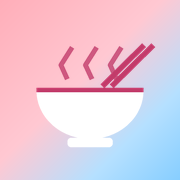
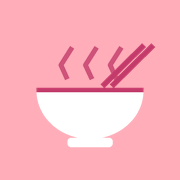
Phối màu toàn hồng, xanh chỉ dùng khi đang nhấn nút
- css: bỏ gradient. Cả app một họ hồng quanh #FFAEB9 (nền #FFF5F7, hồng nhạt
  cho chip/ghi chú, hồng đậm #C23B6A / #8E2650 cho nút, nhãn, biểu đồ, chữ);
  các chỗ trước dùng tông xanh chuyển sang hồng đậm.
- Màu xanh #87CEFF chỉ hiện ở trạng thái :active của nút, chip, thẻ bấm được,
  thanh điều hướng; tắt vệt xám mặc định khi chạm trên điện thoại.
- Icon vẽ lại trên nền hồng trơn. Lên leeming-v8.

Claude-Session: https://claude.ai/code/session_01WVN1NeHRdAepGoXkGaekJ4

diff --git a/css/app.css b/css/app.css
@@ -1,26 +1,26 @@
 :root {
-  /* Hai màu chính: hồng của Cá (--pink) và xanh của bố (--sky). Cả hai là màu pastel nên dùng làm nền/trang trí;
-     nút và chữ dùng tông đậm cùng họ (--accent hồng đậm, --green xanh đậm) để đủ tương phản. */
+  /* Cả app một họ màu hồng, quanh màu Cá thích (--pink #FFAEB9): nhạt cho nền, đậm cho nút và chữ.
+     Màu xanh của bố (--sky #87CEFF) chỉ hiện lúc đang nhấn nút (xem cuối file). */
   --pink: #FFAEB9;
   --sky: #87CEFF;
-  --bg: #FFF6F8;
+  --sky-deep: #5AAEE8;
+  --bg: #FFF5F7;
   --card: #FFFFFF;
-  --line: #F5DDE3;
-  --line-strong: #E6C2CC;
-  --ink: #2B2135;
-  --muted: #6B5E73;
+  --tint: #FFEEF2;
+  --line: #F8DDE4;
+  --line-strong: #F2BCC8;
+  --ink: #3A1F2C;
+  --muted: #7A5A68;
   --accent: #C23B6A;
   --accent-dark: #A12E57;
   --accent-soft: #FFE3E9;
   --accent-ink: #8E2650;
-  --green: #1F6EA5;
-  --green-soft: #E1F3FF;
-  --green-ink: #175A87;
+  --deep: #8E2650;
+  --rose-200: #FFCCD5;
   --star: #E9A23B;
-  --placeholder: #FBE6EB;
-  --focus: #5AAEE8;
+  --placeholder: #FFE3E9;
+  --focus: #E0607B;
   --danger: #B42318;
-  --hero: linear-gradient(135deg, var(--pink) 0%, #FFC8D2 45%, #B5E0FF 75%, var(--sky) 100%);
   --display: 'Baloo 2', 'Be Vietnam Pro', system-ui, sans-serif;
   --body: 'Be Vietnam Pro', system-ui, -apple-system, 'Segoe UI', sans-serif;
   --safe-bottom: env(safe-area-inset-bottom, 0px);
@@ -66,7 +66,6 @@ img { display: block; max-width: 100%; }
 .btn { display: inline-flex; align-items: center; justify-content: center; gap: 8px; border-radius: 999px; padding: 15px 22px; font-weight: 700; font-size: 16px; border: 2px solid transparent; text-decoration: none; min-height: 48px; }
 .btn svg { width: 18px; height: 18px; }
 .btn-primary { background: var(--accent); color: #fff; }
-.btn-primary:active { background: var(--accent-dark); }
 .btn-outline { background: var(--card); border-color: var(--ink); color: var(--ink); }
 .btn-light { background: #fff; color: var(--accent); box-shadow: 0 4px 14px rgba(194, 59, 106, .18); }
 .btn-ghost { background: none; color: var(--accent); padding: 12px; }
@@ -79,13 +78,13 @@ img { display: block; max-width: 100%; }
 
 /* ── Thẻ ── */
 .card { background: var(--card); border: 1px solid var(--line); border-radius: 22px; padding: 16px; }
-.hero { background: var(--hero); color: var(--ink); border-radius: 28px; padding: 24px 22px; display: flex; flex-direction: column; gap: 14px; }
+.hero { background: var(--pink); color: var(--ink); border-radius: 28px; padding: 24px 22px; display: flex; flex-direction: column; gap: 14px; }
 .hero .kicker { font-size: 13px; font-weight: 700; letter-spacing: .06em; text-transform: uppercase; color: var(--accent-ink); }
 .hero p { margin: 0; font-size: 15px; line-height: 1.5; color: var(--ink); }
 .hero .btn { align-self: flex-start; }
 .tiles { display: grid; grid-template-columns: repeat(2, minmax(0, 1fr)); gap: 12px; }
 .tile { background: var(--card); border: 1px solid var(--line); border-radius: 20px; padding: 16px; display: flex; flex-direction: column; gap: 8px; color: var(--ink); text-decoration: none; text-align: left; }
-.tile svg { width: 26px; height: 26px; color: var(--green); }
+.tile svg { width: 26px; height: 26px; color: var(--deep); }
 .tile strong { font-size: 15px; }
 .tile span { font-size: 13px; color: var(--muted); }
 
@@ -96,9 +95,9 @@ img { display: block; max-width: 100%; }
 /* ── Chip & nhãn ── */
 .chips { display: flex; flex-wrap: wrap; gap: 8px; align-items: center; }
 .chip { background: var(--accent-soft); color: var(--accent-ink); font-size: 13px; font-weight: 600; padding: 6px 12px; border-radius: 999px; }
-.chip-green { background: var(--green-soft); color: var(--green-ink); }
+.chip-green { background: var(--tint); color: var(--deep); }
 .badge { font-size: 12px; font-weight: 700; padding: 4px 10px; border-radius: 999px; color: #fff; background: var(--accent); }
-.badge-green { background: var(--green); }
+.badge-green { background: var(--deep); }
 .filter { border-radius: 999px; padding: 8px 14px; font-size: 13px; font-weight: 600; background: var(--card); color: var(--muted); border: 1px solid var(--line); }
 .filter.on { background: var(--accent-soft); color: var(--accent-ink); border-color: var(--accent-soft); }
 
@@ -119,12 +118,11 @@ img { display: block; max-width: 100%; }
 .progress { display: flex; gap: 6px; }
 .progress i { flex: 1 1 0; height: 6px; border-radius: 3px; background: var(--line); }
 .progress i.done { background: var(--accent); }
-.progress i.done:nth-child(even) { background: var(--green); }
 .ask-body { flex: 1; display: flex; flex-direction: column; justify-content: center; gap: 22px; }
 .choice { background: var(--accent-soft); border: 2px solid var(--accent); border-radius: 24px; padding: 20px; display: flex; align-items: center; gap: 14px; text-align: left; width: 100%; color: var(--ink); }
-.choice.b { border-color: var(--green); background: var(--green-soft); }
+.choice.b { border-color: var(--deep); background: var(--card); }
 .choice .key { width: 40px; height: 40px; border-radius: 20px; background: var(--accent); color: #fff; font-family: var(--display); font-weight: 800; font-size: 20px; display: flex; align-items: center; justify-content: center; flex-shrink: 0; }
-.choice.b .key { background: var(--green); }
+.choice.b .key { background: var(--deep); }
 .choice .label { font-size: 18px; font-weight: 700; }
 .choice:active { transform: scale(.98); }
 .dish-card { background: var(--card); border: 1px solid var(--line); border-radius: 28px; padding: 22px; display: flex; flex-direction: column; align-items: center; gap: 12px; text-align: center; }
@@ -132,7 +130,7 @@ img { display: block; max-width: 100%; }
 .dish-art img { width: 100%; height: 100%; object-fit: cover; }
 .dish-art svg { width: 56px; height: 56px; }
 .dish-name { font-family: var(--display); font-weight: 800; font-size: 36px; line-height: 1.05; }
-.note { background: var(--green-soft); border: 1px dashed var(--line-strong); border-radius: 14px; padding: 10px 12px; font-size: 13px; color: var(--muted); }
+.note { background: var(--tint); border: 1px dashed var(--line-strong); border-radius: 14px; padding: 10px 12px; font-size: 13px; color: var(--muted); }
 .pop { animation: pop .35s ease-out; }
 @keyframes pop { from { transform: scale(.94); opacity: 0; } to { transform: none; opacity: 1; } }
 @media (prefers-reduced-motion: reduce) { .pop { animation: none; } .choice:active { transform: none; } }
@@ -183,7 +181,7 @@ img { display: block; max-width: 100%; }
 .stat span { font-size: 12px; color: var(--muted); }
 .stat.red { background: var(--pink); border-color: var(--pink); color: var(--ink); }
 .stat.red span { color: var(--ink); }
-.stat.green { background: var(--sky); border-color: var(--sky); color: var(--ink); }
+.stat.green { background: var(--rose-200); border-color: var(--rose-200); color: var(--ink); }
 .stat.green span { color: var(--ink); }
 .bar-row { display: flex; align-items: center; gap: 10px; }
 .bar-row .k { width: 64px; font-size: 13px; font-weight: 600; flex-shrink: 0; }
@@ -193,7 +191,7 @@ img { display: block; max-width: 100%; }
 .rank { width: 28px; height: 28px; border-radius: 14px; background: var(--accent-soft); color: var(--accent-ink); font-weight: 700; font-size: 13px; display: flex; align-items: center; justify-content: center; flex-shrink: 0; }
 .week { display: grid; grid-template-columns: repeat(7, minmax(0, 1fr)); gap: 6px; align-items: end; height: 110px; }
 .week div { display: flex; flex-direction: column; align-items: center; justify-content: flex-end; gap: 4px; height: 100%; font-size: 12px; color: var(--muted); }
-.week i { width: 100%; max-width: 28px; background: var(--green); border-radius: 6px 6px 3px 3px; min-height: 3px; }
+.week i { width: 100%; max-width: 28px; background: var(--deep); border-radius: 6px 6px 3px 3px; min-height: 3px; }
 .album { display: grid; grid-template-columns: repeat(3, minmax(0, 1fr)); gap: 8px; }
 .album img, .album div { aspect-ratio: 1; width: 100%; object-fit: cover; border-radius: 12px; background: var(--placeholder); }
 
@@ -215,9 +213,9 @@ img { display: block; max-width: 100%; }
 /* ── Thông báo, lớp phủ ── */
 .toast { position: fixed; left: 50%; top: calc(14px + var(--safe-top)); transform: translateX(-50%); background: var(--ink); color: #fff; padding: 12px 18px; border-radius: 14px; font-size: 14px; font-weight: 600; max-width: calc(100% - 40px); z-index: 50; box-shadow: 0 8px 24px rgba(0, 0, 0, .18); }
 .toast.err { background: var(--danger); }
-.demo-bar { background: var(--green-soft); color: var(--green-ink); font-size: 13px; font-weight: 600; padding: 8px 14px; border-radius: 12px; display: flex; justify-content: space-between; gap: 10px; align-items: center; }
-.demo-bar button { background: none; border: none; color: var(--green-ink); font-weight: 700; text-decoration: underline; padding: 4px; }
-.overlay { position: fixed; inset: 0; background: var(--hero); color: var(--ink); z-index: 40; display: flex; flex-direction: column; align-items: center; justify-content: center; gap: 22px; padding: 32px 28px; text-align: center; }
+.demo-bar { background: var(--tint); color: var(--deep); font-size: 13px; font-weight: 600; padding: 8px 14px; border-radius: 12px; display: flex; justify-content: space-between; gap: 10px; align-items: center; }
+.demo-bar button { background: none; border: none; color: var(--deep); font-weight: 700; text-decoration: underline; padding: 4px; }
+.overlay { position: fixed; inset: 0; background: var(--pink); color: var(--ink); z-index: 40; display: flex; flex-direction: column; align-items: center; justify-content: center; gap: 22px; padding: 32px 28px; text-align: center; }
 .overlay .big { font-family: var(--display); font-weight: 800; font-size: 40px; line-height: 1.05; }
 .overlay p { font-size: 18px; line-height: 1.6; margin: 0; white-space: pre-line; color: var(--ink); max-width: 380px; }
 .overlay svg { width: 64px; height: 64px; color: var(--accent); }
@@ -250,13 +248,13 @@ img { display: block; max-width: 100%; }
 .icon-btn.danger { color: var(--danger); }
 .icon-btn[disabled] { opacity: .35; pointer-events: none; }
 .btn-sm { padding: 10px 14px; min-height: 40px; font-size: 14px; }
-.modal { position: fixed; inset: 0; background: rgba(43, 33, 53, .45); z-index: 45; display: flex; align-items: flex-end; justify-content: center; padding: 16px 16px calc(16px + var(--safe-bottom)); }
+.modal { position: fixed; inset: 0; background: rgba(58, 31, 44, .45); z-index: 45; display: flex; align-items: flex-end; justify-content: center; padding: 16px 16px calc(16px + var(--safe-bottom)); }
 .modal .sheet { width: 100%; max-width: 448px; box-shadow: 0 12px 32px rgba(0, 0, 0, .2); }
 
 /* ── Ngữ cảnh & Gợi ý nhanh ── */
 .hero-actions { display: flex; flex-wrap: wrap; gap: 10px; }
 .hero .hero-actions .btn { align-self: auto; }
-.btn-hero-ghost { background: rgba(255, 255, 255, .45); color: var(--ink); border-color: rgba(43, 33, 53, .35); }
+.btn-hero-ghost { background: rgba(255, 255, 255, .5); color: var(--deep); border-color: var(--accent); }
 .ctx-band { display: flex; flex-direction: column; gap: 8px; min-width: 0; }
 .ctx-label { font-size: 13px; font-weight: 700; margin-top: 4px; }
 .chip-scroll { display: flex; gap: 8px; overflow-x: auto; margin: 0 -20px; padding: 2px 20px; scrollbar-width: none; -webkit-overflow-scrolling: touch; }
@@ -265,12 +263,25 @@ img { display: block; max-width: 100%; }
 .cchip.on { background: var(--ink); border-color: var(--ink); color: #fff; }
 .cchip.today:not(.on) { border-color: var(--accent); color: var(--accent-ink); background: var(--accent-soft); }
 .cchip.manual { border-style: dashed; }
-.cchip.static { background: var(--green-soft); border-color: var(--green-soft); color: var(--green-ink); }
+.cchip.static { background: var(--accent-soft); border-color: var(--accent-soft); color: var(--deep); }
 .greet { background: var(--accent-soft); color: var(--accent-ink); border-radius: 14px; padding: 10px 14px; font-weight: 600; font-size: 14px; }
-.why { background: var(--card); border: 1px solid var(--line); border-left: 4px solid var(--green); border-radius: 16px; padding: 12px 14px; display: flex; flex-direction: column; gap: 6px; font-size: 14px; }
-.why-t { font-weight: 700; color: var(--green-ink); font-size: 13px; }
+.why { background: var(--card); border: 1px solid var(--line); border-left: 4px solid var(--deep); border-radius: 16px; padding: 12px 14px; display: flex; flex-direction: column; gap: 6px; font-size: 14px; }
+.why-t { font-weight: 700; color: var(--deep); font-size: 13px; }
 .group-h { margin-top: 6px; }
 .badge-soft { background: var(--placeholder); color: var(--muted); flex-shrink: 0; }
 .place.osm { border-style: dashed; }
 .spinner.sm { width: 16px; height: 16px; border-width: 2px; }
 .insight { display: flex; flex-direction: column; gap: 2px; padding-top: 4px; }
+
+/* ── Lúc đang nhấn: màu xanh của bố, chỉ dùng ở đây ── */
+* { -webkit-tap-highlight-color: transparent; }
+.btn:active, .fab:active, .icon-btn:active, .choice:active, .cchip:not(.static):active, .filter:active,
+.segmented button:active, .tile:active, .list-item:active, .score-row .clear:active, .toggle:active span,
+.link-quiet:active, .bottom-nav a:active, .demo-bar a:active {
+  background: var(--sky) !important;
+  border-color: var(--sky-deep) !important;
+  color: var(--ink) !important;
+  box-shadow: none !important;
+}
+.choice:active .key { background: var(--ink); }
+.bottom-nav a:active, .link-quiet:active { border-radius: 14px; }

diff --git a/index.html b/index.html
@@ -16,7 +16,7 @@
   <link rel="preconnect" href="https://fonts.googleapis.com">
   <link rel="preconnect" href="https://fonts.gstatic.com" crossorigin>
   <link rel="stylesheet" href="https://fonts.googleapis.com/css2?family=Baloo+2:wght@600;700;800&family=Be+Vietnam+Pro:wght@400;500;600;700&display=swap">
-  <link rel="stylesheet" href="css/app.css?v=7">
+  <link rel="stylesheet" href="css/app.css?v=8">
 </head>
 <body>
   <main id="app" aria-live="polite">
@@ -28,9 +28,9 @@
   <div id="toast" class="toast" role="status" hidden></div>
   <noscript>App cần bật JavaScript để chạy.</noscript>
   <!-- ?v=… đổi cùng VERSION trong sw.js để trình duyệt tải bản mới -->
-  <script src="js/config.js?v=7"></script>
-  <script src="js/gas-shim.js?v=7"></script>
-  <script src="js/context.js?v=7"></script>
-  <script src="js/app.js?v=7"></script>
+  <script src="js/config.js?v=8"></script>
+  <script src="js/gas-shim.js?v=8"></script>
+  <script src="js/context.js?v=8"></script>
+  <script src="js/app.js?v=8"></script>
 </body>
 </html>

diff --git a/sw.js b/sw.js
@@ -1,7 +1,7 @@
 /* Service worker: lưu sẵn giao diện app để mở nhanh và mở được cả khi mạng yếu.
  * Dữ liệu (Google Apps Script) không đi qua đây — luôn lấy mới từ máy chủ.
  * Khi sửa code, tăng VERSION để điện thoại tải bản mới. */
-var VERSION = 'leeming-v7';
+var VERSION = 'leeming-v8';
 var NETWORK_ONLY = /(^|\.)(open-meteo\.com|overpass-api\.de|overpass\.kumi\.systems|script\.google\.com|script\.googleusercontent\.com)$/;
 var SHELL = [
   './', 'index.html', 'css/app.css', 'js/config.js', 'js/gas-shim.js', 'js/context.js', 'js/app.js', 'backend/Code.gs',

diff --git a/js/app.js b/js/app.js
@@ -9,7 +9,7 @@
 (function () {
   'use strict';
 
-  var APP_VERSION = 'leeming-v7'; // đổi cùng VERSION trong sw.js
+  var APP_VERSION = 'leeming-v8'; // đổi cùng VERSION trong sw.js
   var CFG = window.APP_CONFIG || {};
   var DEMO = !CFG.API_URL;
   var WRITE_ACTIONS = { create: 1, update: 1, remove: 1, linkDishes: 1, saveSession: 1, saveMeal: 1 };
